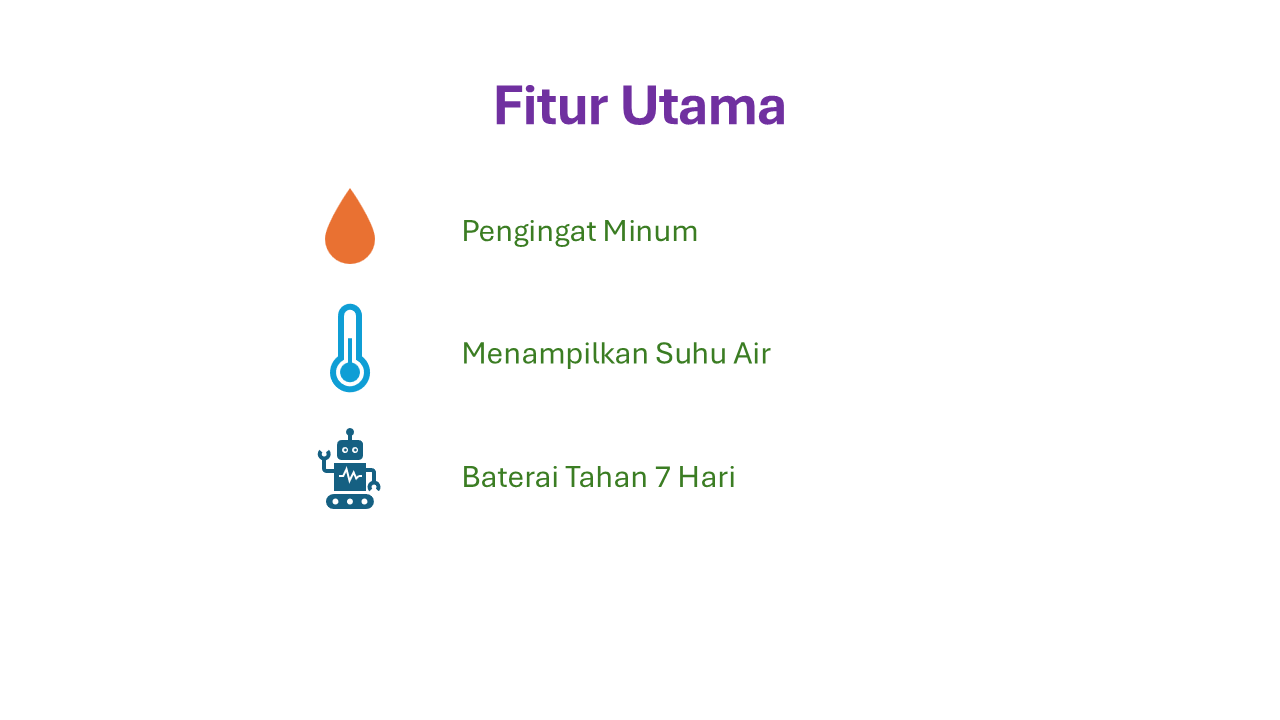
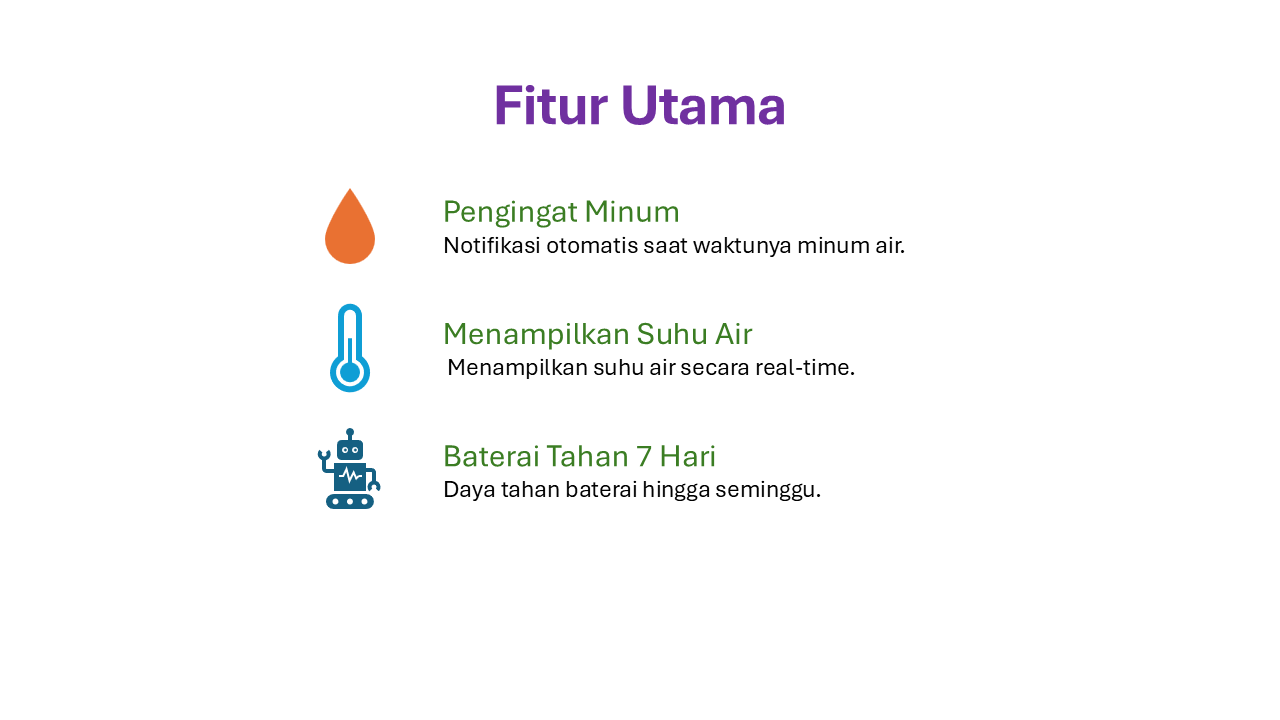
M

Changed region(s): [[0.3438, 0.6111, 0.6562, 0.7028], [0.3438, 0.275, 0.7188, 0.3667], [0.3438, 0.4278, 0.6562, 0.5194]]

diff --git a/materi-powerpoint.html b/materi-powerpoint.html
@@ -2955,7 +2955,7 @@
                                         </ul>
                                       </li> -->
 
-                                      <li>
+                                      <!-- <li>
                                         <strong>Rapikan teks:</strong> Seleksi semua Text Box → Tab <strong>Shape
                                           Format</strong> → <strong>Align</strong> → <strong>Align Middle</strong> dan
                                         <strong>Distribute Horizontally</strong>. <br>
@@ -2963,7 +2963,7 @@
                                         <div class="my-3">
                                           <img src="assets/img/text-center.png" alt="" class="img-fluid shadow rounded">
                                         </div>
-                                      </li>
+                                      </li> -->
                                     </ol>
                                   </div>
                                   <div class="col-md-6">
@@ -3012,13 +3012,21 @@
 
                               <li><strong>Beri keterangan:</strong> <br> <strong>Insert</strong> → <strong>Text
                                   Box</strong> di bawah masing-masing ikon:
-                                <ul class="list-unstyled ms-3 mb-2">
-                                  <li><strong>💧 Pengingat Minum</strong> — Notifikasi otomatis saat waktunya
-                                    minum air.</li>
-                                  <li><strong>🌡 Suhu Air</strong> — Menampilkan suhu air secara real-time.</li>
-                                  <li><strong>🔋 Baterai Tahan 7 Hari</strong> — Daya tahan baterai hingga
-                                    seminggu.</li>
-                                </ul>
+                                  <table>
+                                    <tr>
+                                      <td>💧</td>
+                                      <td><strong>Pengingat Minum</strong> — Notifikasi otomatis saat waktunya minum air.</td>
+                                    </tr>
+                                    <tr>
+                                      <td>🌡</td>
+                                      <td><strong>Suhu Air</strong> — Menampilkan suhu air secara real-time.</td>
+                                    </tr>
+                                    <tr>
+                                      <td>🔋</td>
+                                      <td><strong>Baterai Tahan 7 Hari</strong> — Daya tahan baterai hingga seminggu.</td>
+                                    </tr>
+                                  </table>
+                                  
                                 <strong>Rapikan teks:</strong> <br> Seleksi semua Text Box → Tab <strong>Shape
                                   Format</strong> → <strong>Align</strong> → <strong>Align Left</strong> dan
                                 <strong>Distribute Vertically</strong>.
